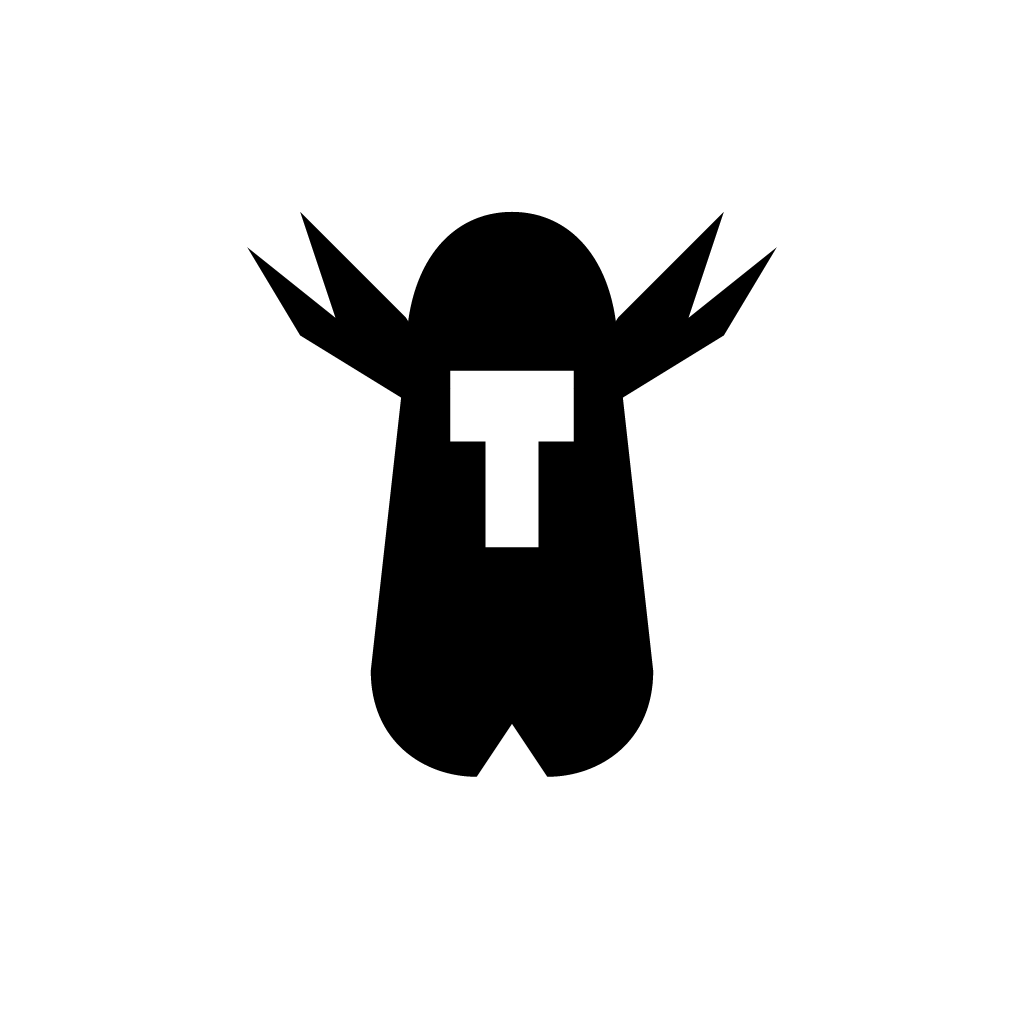
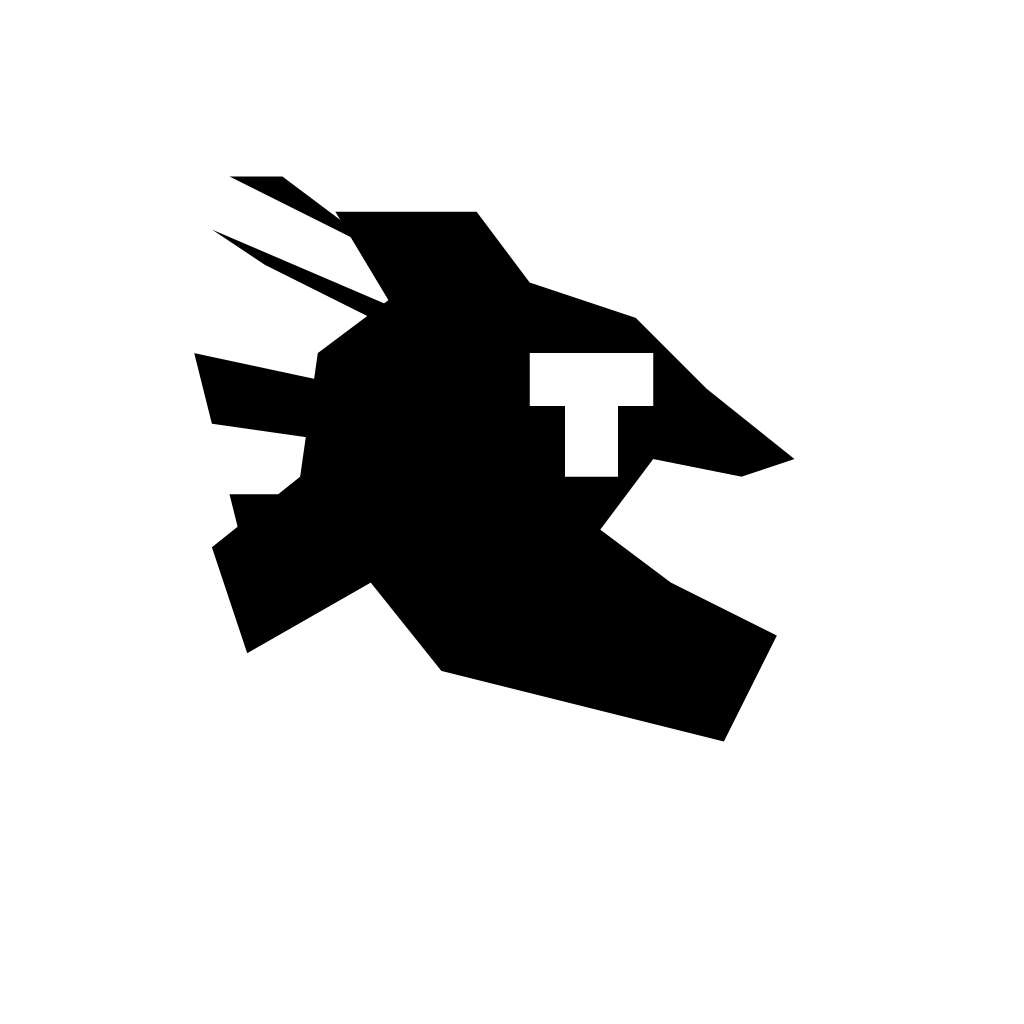
Redraw the helmet as a winged Corinthian profile.
The mark is a side view with a crest, nasal, cheek guard, and separated feathers, plus a simpler variant for small icons.

Changed region(s): [[0.1875, 0.1562, 0.7812, 0.7812], [0.2188, 0.2188, 0.25, 0.25]]

diff --git a/src/ui/helmet.ts b/src/ui/helmet.ts
@@ -1,7 +1,27 @@
-/** Canonical paths for assets/brand/helmet.svg. Keep the two in step. */
+/** Canonical paths for assets/brand/helmet.svg and helmet-icon.svg. Keep them in step. */
+
 export const HELMET_VIEWBOX = '0 0 80 80';
 
-export const HELMET_WING_LEFT = 'M29 28L16 20L10 10L20 18L16 6L28 18L33 26Z';
-export const HELMET_WING_RIGHT = 'M51 28L64 20L70 10L60 18L64 6L52 18L47 26Z';
-export const HELMET_BODY =
-  'M28 22C28 12 33 6 40 6C47 6 52 12 52 22L56 58C56 66 50 70 44 70L40 64L36 70C30 70 24 66 24 58ZM33 24H47V32H43V44H37V32H33Z';
+type HelmetPath = { d: string; evenodd?: boolean };
+
+/** Full mark: side-profile Corinthian helmet, crest, and four swept feathers. */
+export const HELMET_PATHS: readonly HelmetPath[] = [
+  { d: 'M28 12L8 2L14 2L30 14Z' },
+  { d: 'M34 20L6 8L12 12L36 24Z' },
+  { d: 'M32 28L4 22L6 30L34 34Z' },
+  { d: 'M30 38L8 38L10 46L32 44Z' },
+  {
+    d: 'M72 34L62 26L54 18L42 14L36 6L20 6L26 16L18 22L16 36L6 44L10 56L24 48L32 58L64 66L70 54L58 48L50 42L56 34L66 36ZM42 22H56V28H52V36H46V28H42Z',
+    evenodd: true,
+  },
+];
+
+/** Fewer, thicker feathers and a single eye slot, for 32px and below. */
+export const HELMET_ICON_PATHS: readonly HelmetPath[] = [
+  { d: 'M36 16L6 2L14 8L38 22Z' },
+  { d: 'M32 30L4 28L8 42L34 40Z' },
+  {
+    d: 'M72 34L62 26L54 18L42 14L36 6L20 6L26 16L18 22L16 36L6 44L10 56L24 48L32 58L64 66L70 54L58 48L50 42L56 34L66 36ZM44 22H58V32H44Z',
+    evenodd: true,
+  },
+];

diff --git a/src/ui/helmet.test.ts b/src/ui/helmet.test.ts
@@ -2,16 +2,24 @@ import { readFileSync } from 'node:fs';
 import { resolve } from 'node:path';
 import { describe, expect, it } from 'vitest';
 
-import { HELMET_BODY, HELMET_WING_LEFT, HELMET_WING_RIGHT } from './helmet';
+import { HELMET_ICON_PATHS, HELMET_PATHS } from './helmet';
 
-const svg = readFileSync(resolve(process.cwd(), 'assets/brand/helmet.svg'), 'utf8');
+function svg(name: string) {
+  return readFileSync(resolve(process.cwd(), 'assets/brand', name), 'utf8');
+}
 
 describe('helmet mark', () => {
-  it('uses one monochrome fill and the shared paths', () => {
-    expect(svg).toContain('fill="currentColor"');
-    expect(svg).toContain(HELMET_WING_LEFT);
-    expect(svg).toContain(HELMET_WING_RIGHT);
-    expect(svg).toContain(HELMET_BODY);
-    expect(svg).toContain('fill-rule="evenodd"');
+  it('keeps the detailed profile in the source SVG', () => {
+    const source = svg('helmet.svg');
+    expect(source).toContain('fill="currentColor"');
+    expect(source).toContain('fill-rule="evenodd"');
+    for (const path of HELMET_PATHS) expect(source).toContain(path.d);
+  });
+
+  it('keeps a simpler icon variant for small sizes', () => {
+    const source = svg('helmet-icon.svg');
+    expect(source).toContain('fill="currentColor"');
+    expect(source).toContain('fill-rule="evenodd"');
+    for (const path of HELMET_ICON_PATHS) expect(source).toContain(path.d);
   });
 });

diff --git a/src/ui/ui.tsx b/src/ui/ui.tsx
@@ -14,7 +14,7 @@ import {
 import Svg, { Path } from 'react-native-svg';
 
 import type { Verification } from '@/data/types';
-import { HELMET_BODY, HELMET_VIEWBOX, HELMET_WING_LEFT, HELMET_WING_RIGHT } from '@/ui/helmet';
+import { HELMET_ICON_PATHS, HELMET_PATHS, HELMET_VIEWBOX } from '@/ui/helmet';
 import { radius, useAppTheme } from '@/ui/theme';
 
 type Variant = 'hero' | 'display' | 'title' | 'body' | 'muted' | 'label';
@@ -67,11 +67,12 @@ export function Wordmark({ size = 22 }: { size?: number }) {
 export function Mark({ size = 28 }: { size?: number }) {
   const theme = useAppTheme();
   const color = theme.colors.ink;
+  const paths = size <= 36 ? HELMET_ICON_PATHS : HELMET_PATHS;
   return (
     <Svg width={size} height={size} viewBox={HELMET_VIEWBOX} accessibilityRole="image" accessibilityLabel="Winged helmet">
-      <Path d={HELMET_WING_LEFT} fill={color} />
-      <Path d={HELMET_WING_RIGHT} fill={color} />
-      <Path d={HELMET_BODY} fill={color} fillRule="evenodd" />
+      {paths.map((path) => (
+        <Path key={path.d} d={path.d} fill={color} fillRule={path.evenodd ? 'evenodd' : 'nonzero'} />
+      ))}
     </Svg>
   );
 }
